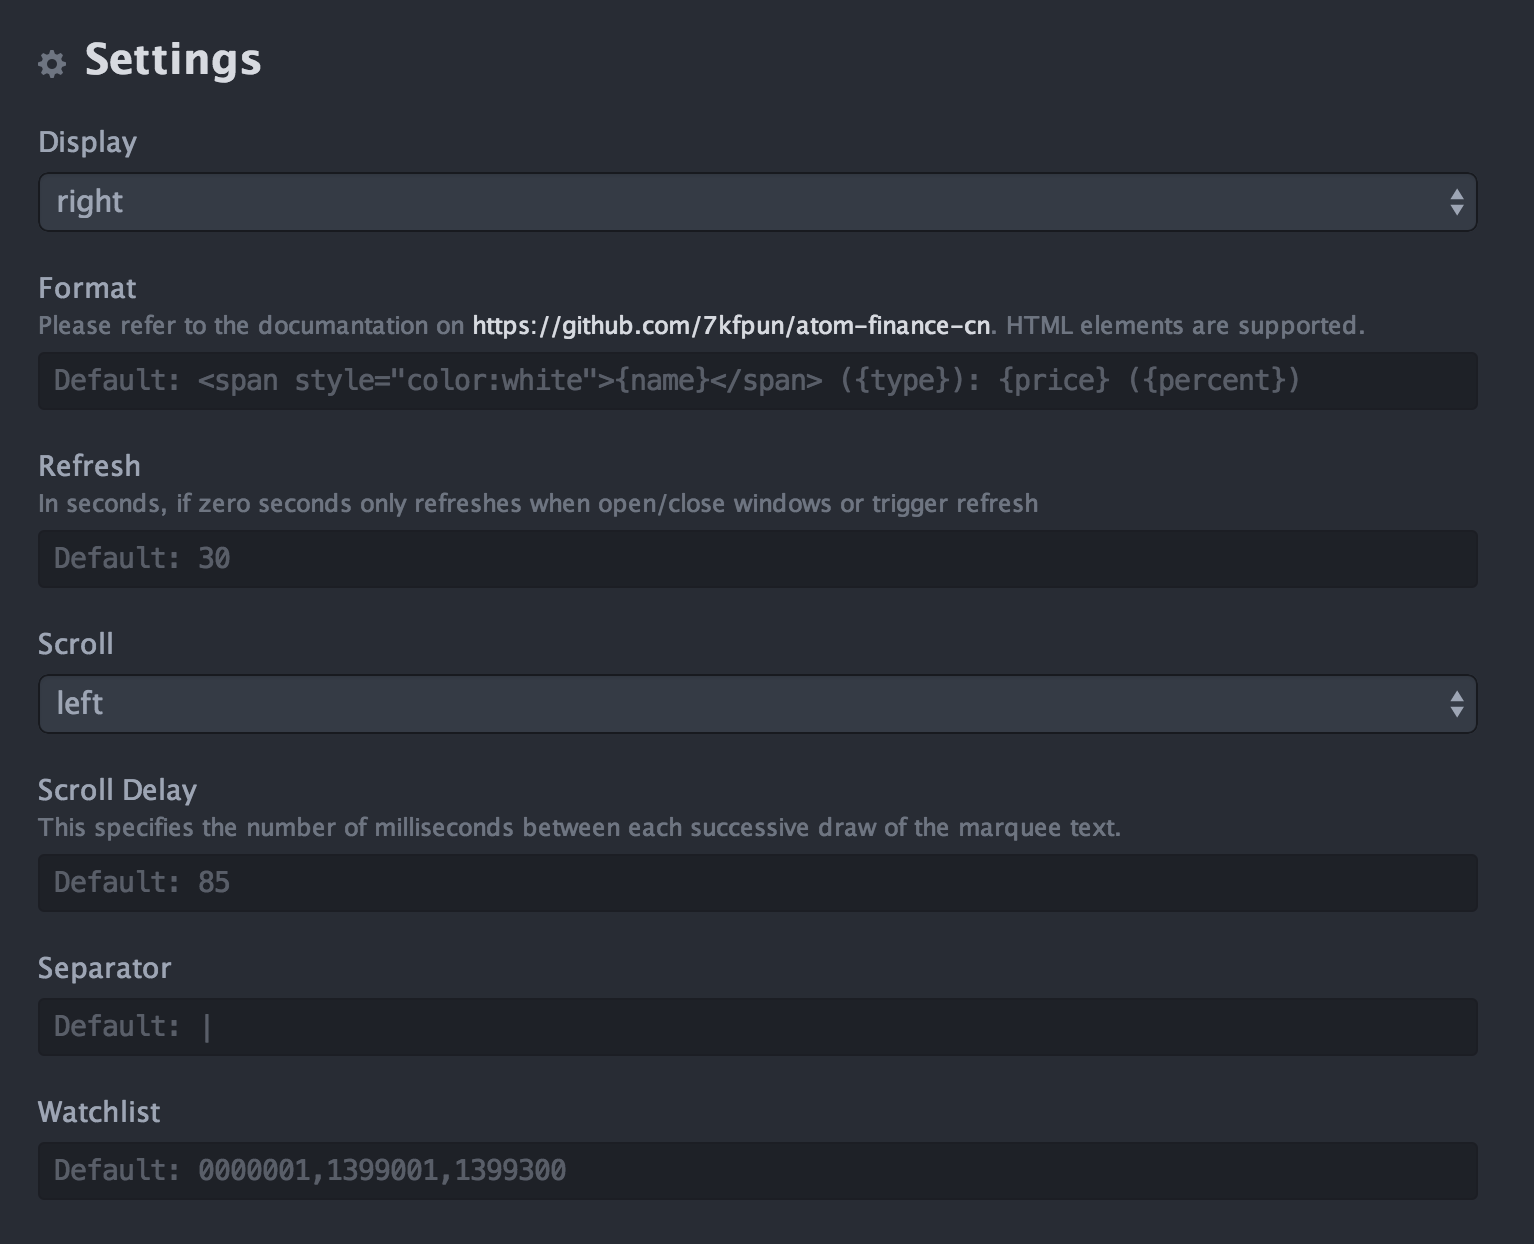
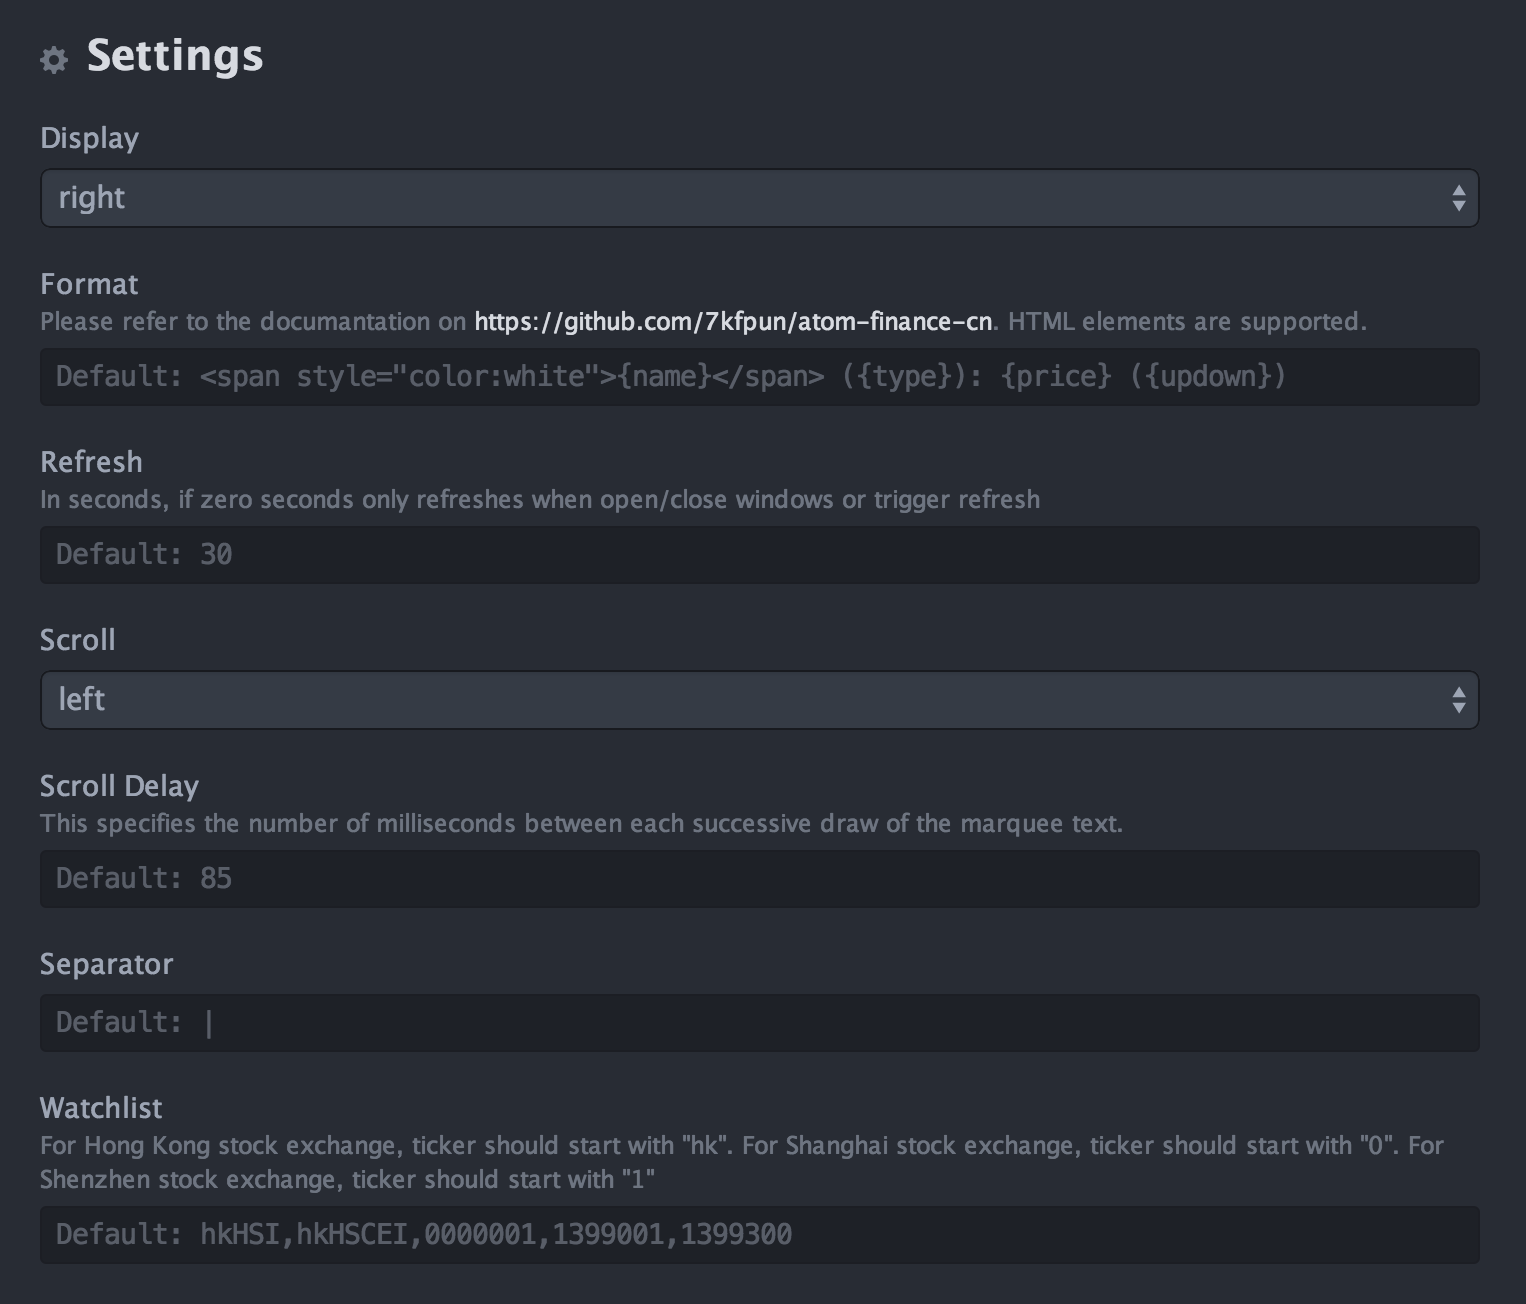
fix bugs; update README

diff --git a/README.md b/README.md
@@ -1,6 +1,6 @@
 # Finance-cn
 
-Simple plugin for checking your stock in Atom.io editor (Chinese market).
+Simple plugin for checking your stock in Atom.io editor (Hong Kong and China market).
 
 ![ScreenShot](https://raw.github.com/7kfpun/atom-finance-cn/master/screenshot.gif)
 
@@ -52,7 +52,7 @@ Finance-cn has 6 settings that can be edited:
 4. Scroll | default: `left` (left, right, fixed)
 4. Scroll Delay | default: `85`
 5. Separator | default: ` | `
-6. Watchlist | default: `0000001,1399001,1399300`
+6. Watchlist | default: `hkHSI,hkHSCEI,0000001,1399001,1399300`
 
 #### Commands
 
@@ -65,6 +65,17 @@ The following commands are available and are keyboard shortcuts.
 ## Financial data from Money 163 (網易財經)
 
 This plugin supports all exchanges and markets that Money 163 covers.
+
+- For Hong Kong stock exchange, ticker should start with "hk":
+  - hkHSI for Hang Seng Index
+  - hkHSCEI for Hang Seng China Enterprises Index
+  - hk00005 for HSBC
+- For Shanghai stock exchange, ticker should start with "0":
+  - 0000001 for SSE Composite Index
+  - 0601318 for Ping An
+- For Shenzhen stock exchange, ticker should start with "1":
+  - 1399001 for SZSE Component Index
+  - 1002594 for BYD Co Ltd
 
 #### QuoteProperty
 

diff --git a/CHANGELOG.md b/CHANGELOG.md
@@ -1,2 +1,6 @@
+## 0.2.0 - (2015-09-08)
+* Fixed bug
+* Update README
+
 ## 0.1.0 - (2015-09-07)
 * Initial release
